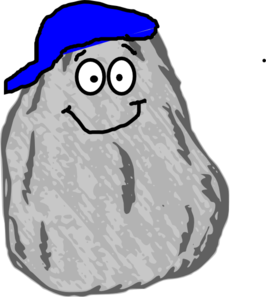
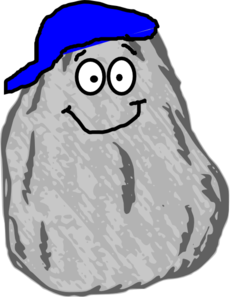
Created a text box for displaying messages.  Cleaned up the images a little bit so that they looked a little more symetrical.  Started implementing functionality for the button clicks so that game play can actually occur on the front end side.

diff --git a/RPSLS.js b/RPSLS.js
@@ -69,20 +69,22 @@ class Game{
                 this.selectGameType();
             }
         }
-            switch(gameSelection){
-                case "1":
-                    this.playerOne = new Human();
-                    this.playerTwo = new Computer();
-                    break;
-                case "2":
-                    this.playerOne = new Human();
-                    this.playerTwo = new Human();
-                    break;
-                case "3":
-                    this.playerOne = new Computer();
-                    this.playerOne = new Computer();
-                    break;
-            }
+        switch(gameSelection){
+            case "1":
+                this.playerOne = new Human();
+                this.playerTwo = new Computer();
+                this.runGame();
+                break;
+            case "2":
+                this.playerOne = new Human();
+                this.playerTwo = new Human();
+                this.runGame();
+                break;
+            case "3":
+                this.playerOne = new Computer();
+                this.playerOne = new Computer();
+                break;
+        }
     }
 
     onePlayerGame(){
@@ -150,9 +152,7 @@ class Game{
 
     }
     runGame(){
-        //display rules
-        this.selectGameType();
-        this.scoreLimit = this.setScoreLimit();
+        this.setScoreLimit();
         this.gamePlay();
     }
 }
@@ -168,3 +168,6 @@ function validateNumberChosen(validNumber, outOfBoundsMinimum, outOfBoundsMaximu
         return false;
     }
 }
+function displayToTextBox(message) {
+    document.getElementById("myTextBox").innerHTML = message;
+  }

diff --git a/RSPLS.html b/RSPLS.html
@@ -15,7 +15,7 @@
 
     <div class = "row">
       <div class = "column">
-        <img src="rock.png" alt="rock" style="width:60%">
+        <img src="rock.png" alt="rock" style="width:50%">
       </div>
 
       <div class = "column">
@@ -37,15 +37,19 @@
     </div>
 
     <div class = "centerButtons">
-      <div class = "button">
-        <button type="button" onclick="game.runGame()">Start Game</button>
-      </div>  
+      
       <div class = "button">
         <button type="button" onclick="game.selectGameType('1')">One Player Mode</button>
       </div>
       <div class = "button">
         <button type="button" onclick="game.selectGameType('2')">Two Player Mode</button>
       </div>
-  </div>
+    </div>
+
+    <div class = "row">
+      <div class = "textDisplayBox">
+        <input type="text" id="myTextBox" readonly>
+      </div>
+    </div>  
   </body>
 </html>

diff --git a/styles.css b/styles.css
@@ -42,3 +42,15 @@ img:hover {
 .button{
   padding: 10px;
 }
+
+.textDisplayBox{
+  text-align: center;
+  height : 20%;
+  width : 100%;
+}
+
+#myTextBox{
+  text-align: center;
+  height: 100px;
+  width : 50%;
+}
